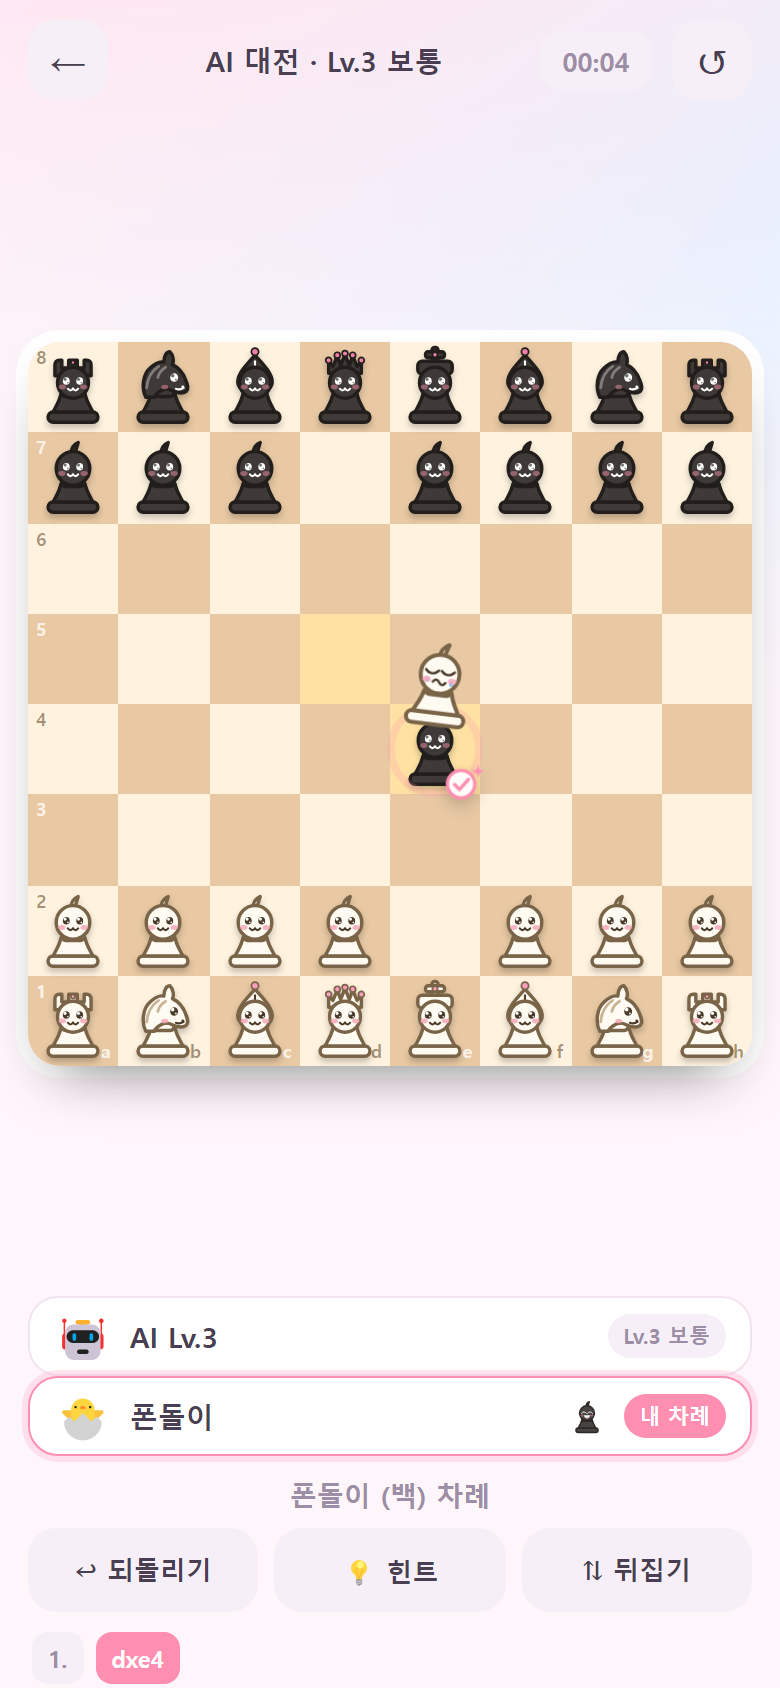
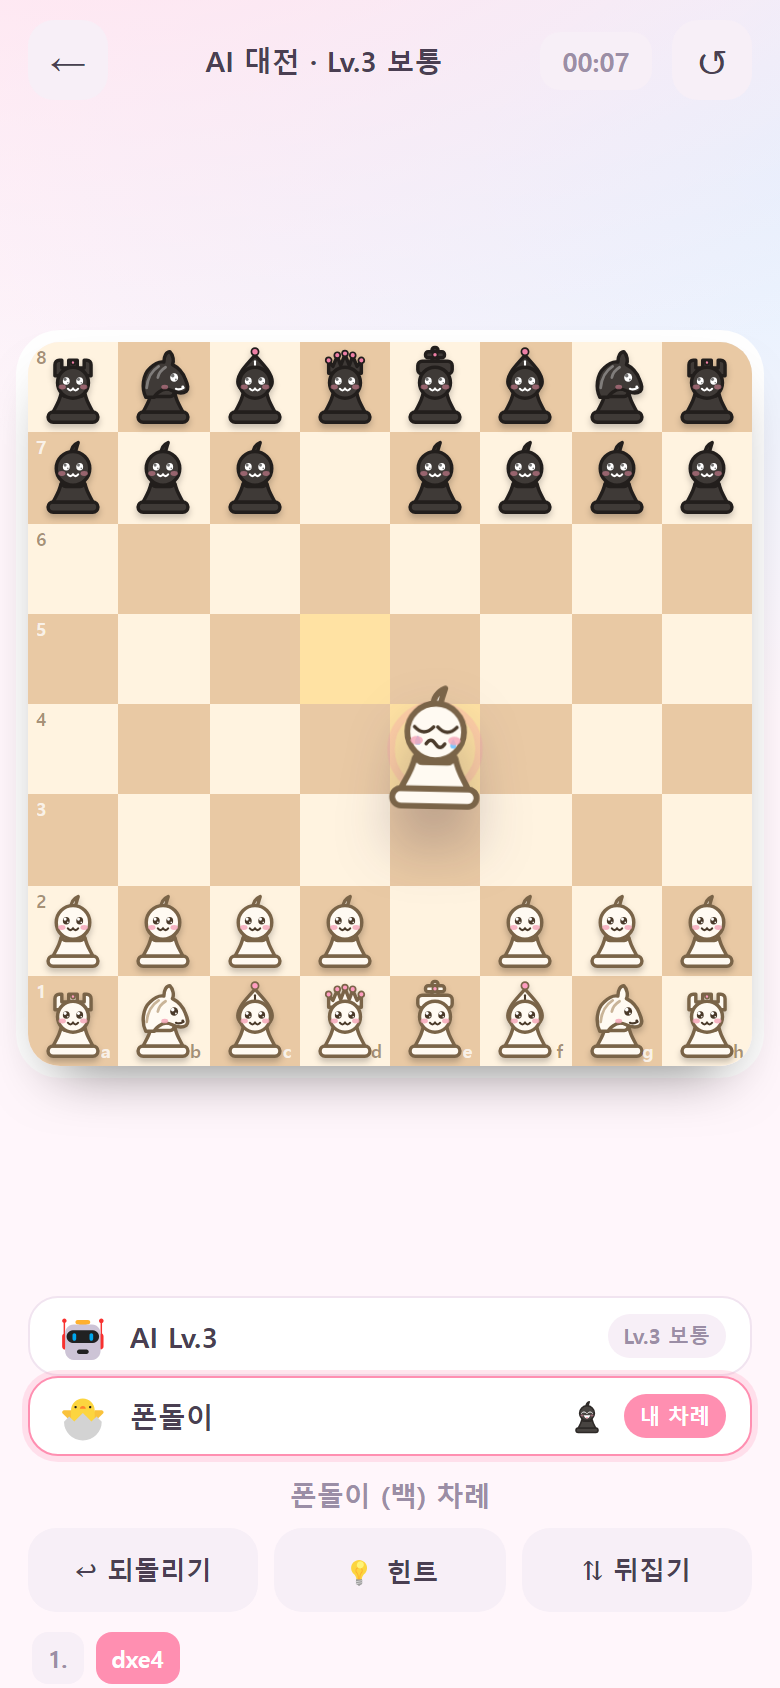
6주차 : 이동 더 천천히(0.6초) + 잡힌 기물이 커지며 표정 보여주고 정상 크기로 복귀
- 이동 0.6초(나이트 0.76초, 캐슬링 룩 0.54초)로 느리게
- 잡힌 기물: 그 자리에서 1.6배로 커져 표정 -> 0.5초 유지 -> 정상 크기 -> 사라짐 (1.4초)
- 잡기에서는 도착 도장 생략 (큰 표정이 도착 확인 역할)
- AI 는 최소 0.9초 + 내 연출이 끝날 때까지 기다린다
- 테스트 19개(전체 146개) 타이밍에 안전하게 폴링으로 재작성
- sw.js VERSION v1.4

Changed region(s): [[0.4923, 0.3697, 0.6154, 0.5237]]

diff --git a/app.js b/app.js
@@ -84,6 +84,7 @@
     aiInfo: null,            // 마지막 AI 탐색 정보 {depth, nodes, ms}
     taken: { w: [], b: [] }, // 잡힌 기물 목록 (6주차 : 얼굴 반응에 쓴다)
     animHide: [],            // 이동 연출 중 숨길 칸 (도착 칸 · 캐슬링 룩 칸)
+    fxUntil: 0,              // 지금 연출이 끝나는 시각 (AI 가 이보다 먼저 두지 않게)
     clock: 0,
     timerId: null,
   };
@@ -371,8 +372,8 @@
        · 규칙(상태)은 applyMove 에서 이미 바뀐다 → 연출은 "화면 위에서만" 한다
          (그래서 저장·테스트·되돌리기는 예전처럼 즉시 동기로 돈다)
        · 이동 : 기물이 천천히 미끄러진다 (나이트는 살짝 포물선)
-       · 도착 : 위치 확인 도장(체크) + 링 + 말랑 착지
-       · 잡힘 : 잡힌 기물의 얼굴이 바뀐다
+       · 도착 : 위치 확인 도장(체크) + 링 + 말랑 착지 (잡기에서는 생략)
+       · 잡힘 : 잡힌 기물이 그 자리에서 커지며 표정을 보여주고 → 다시 정상 크기로 돌아온 뒤 사라진다
             AI 기물이 잡히면 → 웃음(ㅋㅋ)   /   내 기물이 잡히면 → 울음(엉엉)
        · prefers-reduced-motion 이면 움직임 없이 바로 반영한다
      ========================================================== */
@@ -437,22 +438,24 @@
     function clear() {
       gen++;
       layer.innerHTML = '';
+      state.fxUntil = 0;
       reveal();
       boardEl.querySelectorAll('.land-ring, .land-stamp').forEach(el => el.remove());
       boardEl.querySelectorAll('.piece.land').forEach(el => el.classList.remove('land'));
     }
 
-    // 도착 연출 : 링 + 확인 도장 + 말랑 착지
-    function land(i) {
+    // 도착 연출 : 링 + (잡기가 아닐 때) 확인 도장 + 말랑 착지
+    function land(i, withStamp) {
       const cell = boardEl.querySelector(`.square[data-i="${i}"]`);
       if (!cell) return;
       const ring = document.createElement('span');
       ring.className = 'land-ring';
+      cell.appendChild(ring);
+
       const stamp = document.createElement('span');
       stamp.className = 'land-stamp';
       stamp.innerHTML = STAMP;
-      cell.appendChild(ring);
-      cell.appendChild(stamp);
+      if (withStamp) cell.appendChild(stamp);
 
       const p = cell.querySelector('.piece');
       if (p) {
@@ -467,11 +470,12 @@
       }, 1150);
     }
 
-    // 잡힌 기물 : 얼굴 바꿔서 둥실 떠오르며 사라진다
+    // 잡힌 기물 : 그 자리에서 커지며 표정(웃음/울음)을 보여주고 → 다시 정상 크기로 돌아온 뒤 사라진다
+    const VICTIM_MS = 1400;
     function victimFx(piece, sq) {
       const mood = (piece.color === aiColor()) ? 'laugh' : 'cry';
       const el = make('victim', sq, pieceHTML(piece.type, piece.color, mood));
-      setTimeout(() => el.remove(), 980);
+      setTimeout(() => el.remove(), VICTIM_MS + 80);
     }
 
     /**
@@ -487,7 +491,7 @@
 
       const my = gen;
       const isKnight = piece.type === 'n';
-      const dur = isKnight ? 430 : 330;         // 천천히 (기본 0.33초)
+      const dur = isKnight ? 760 : 600;         // 천천히 (기본 0.6초 · 나이트 0.76초)
 
       // 도착 칸(과 캐슬링 룩 칸)의 기물은 날아가는 동안 숨긴다 — 두 개가 겹쳐 보이지 않게
       const hides = [to];
@@ -523,12 +527,15 @@
         : (info.captured ? to : -1);
       const victim = capSq >= 0 ? before[capSq] : null;
 
+      // 이 연출이 끝나는 시각 — AI 가 이보다 먼저 두면 내 연출이 잘린다
+      state.fxUntil = nowMs() + dur + (victim ? VICTIM_MS : 0);
+
       setTimeout(() => {
         if (my !== gen) return;
         fly.remove();
         if (flyRook) flyRook.remove();
         reveal();
-        land(to);
+        land(to, !victim);                   // 잡기에서는 큰 표정이 "도착 확인" 역할을 한다
         if (victim) victimFx(victim, capSq);
       }, dur + 10);
     }
@@ -753,7 +760,7 @@
   }
 
   // AI 차례면 생각을 시작한다
-  const AI_MIN_MS = 520;      // 최소 대기 — 내 기물이 "도착하는 걸 보고" 응수하게 (연출 0.33초 + 여유)
+  const AI_MIN_MS = 900;      // 최소 대기 — 내 기물이 "도착하는 걸 보고" 응수하게 (사람처럼 한 박자)
   const nowMs = () => (window.performance && performance.now) ? performance.now() : Date.now();
 
   function maybeAI() {
@@ -782,7 +789,9 @@
         }
         state.thinking = false;
         applyMove(mv.from, mv.to, mv.promotion);
-      }, Math.max(0, AI_MIN_MS - (nowMs() - t0)));
+      }, Math.max(0,
+        AI_MIN_MS - (nowMs() - t0),            // 최소 0.9초
+        (state.fxUntil || 0) - nowMs()));      // + 내 이동·표정 연출이 끝날 때까지
     });
   }
 

diff --git a/style.css b/style.css
@@ -554,14 +554,14 @@ html[data-theme="dark"] .piece.b { --body: #3a3634; --line: #9b948c; --mane: rgb
 .fly-piece {
   z-index: 3;
   filter: drop-shadow(0 9px 7px rgba(0, 0, 0, .3));
-  animation: flySlide 330ms cubic-bezier(.22, .9, .3, 1) forwards;
+  animation: flySlide 600ms cubic-bezier(.4, .05, .3, 1) forwards;
 }
-.fly-piece.rook { animation-duration: 290ms; }
-.fly-piece.knight { animation: flyArc 430ms cubic-bezier(.22, .9, .3, 1) forwards; }
+.fly-piece.rook { animation-duration: 540ms; }
+.fly-piece.knight { animation: flyArc 760ms cubic-bezier(.4, .05, .3, 1) forwards; }
 
 @keyframes flySlide {
   0%   { transform: translate(0, 0) scale(1); }
-  32%  { transform: translate(calc(var(--dx) * .32), calc(var(--dy) * .32)) scale(1.1); }
+  30%  { transform: translate(calc(var(--dx) * .3), calc(var(--dy) * .3)) scale(1.12); }
   100% { transform: translate(var(--dx), var(--dy)) scale(1); }
 }
 /* 나이트는 살짝 뛰어넘는다 (귀여운 포물선) */
@@ -571,17 +571,21 @@ html[data-theme="dark"] .piece.b { --body: #3a3634; --line: #9b948c; --mane: rgb
   100% { transform: translate(var(--dx), var(--dy)) scale(1) rotate(0); }
 }
 
-/* ---- 잡힌 기물 : 얼굴이 바뀐 채로 둥실 떠올라 사라진다 ---- */
+/* ---- 잡힌 기물 : 그 자리에서 커지며 표정을 보여주고 → 정상 크기로 돌아온 뒤 사라진다 ---- */
 .victim {
   z-index: 4;
-  animation: victimFly 900ms cubic-bezier(.3, .7, .4, 1) forwards;
+  transform-origin: 50% 55%;
+  filter: drop-shadow(0 10px 9px rgba(40, 30, 60, .3));
+  animation: victimGrow 1400ms cubic-bezier(.3, .8, .4, 1) forwards;
 }
-@keyframes victimFly {
-  0%   { transform: translate(0, 0) scale(1) rotate(0); opacity: 1; }
-  12%  { transform: translate(0, -6%) scale(1.24) rotate(-8deg); opacity: 1; }
-  34%  { transform: translate(4%, -72%) scale(1.1) rotate(7deg); opacity: 1; }
-  70%  { transform: translate(-5%, -124%) scale(.95) rotate(-9deg); opacity: .9; }
-  100% { transform: translate(2%, -180%) scale(.55) rotate(11deg); opacity: 0; }
+@keyframes victimGrow {
+  0%   { transform: scale(1) rotate(0); opacity: 1; }
+  16%  { transform: scale(1.58) rotate(-5deg); opacity: 1; }   /* 커지면서 */
+  34%  { transform: scale(1.62) rotate(4deg); opacity: 1; }    /* 표정 보여주기 */
+  56%  { transform: scale(1.5) rotate(-3deg); opacity: 1; }    /* 잠깐 유지 */
+  78%  { transform: scale(1.02) rotate(0); opacity: 1; }       /* 다시 정상 크기로 */
+  92%  { transform: scale(1) rotate(0); opacity: 1; }
+  100% { transform: scale(.86) rotate(0); opacity: 0; }        /* 그다음 사라짐 */
 }
 
 /* ---- 도착 : 위치 확인 링 + 도장 + 말랑 착지 ---- */
@@ -600,8 +604,8 @@ html[data-theme="dark"] .piece.b { --body: #3a3634; --line: #9b948c; --mane: rgb
   100% { transform: scale(1.5); opacity: 0; }
 }
 
-/* "여기 도착!" 확인 도장 : 칸 오른쪽 위에 톡 찍힌다
-   (연출 레이어(z 30)보다 위 → 잡힌 기물이 떠올라도 도장이 가려지지 않는다) */
+/* "여기 도착!" 확인 도장 : 칸 오른쪽 아래에 톡 찍힌다
+   (잡기에서는 잡힌 기물이 커지며 표정을 보여주므로 도장은 생략한다) */
 .land-stamp {
   position: absolute;
   right: -7%;

diff --git a/index.html b/index.html
@@ -107,7 +107,7 @@
       <button class="btn btn-primary btn-lg" id="btn-start" type="button">게임 시작</button>
       <button class="btn btn-ghost btn-lg install-btn" id="btn-install" type="button" hidden>📲 홈 화면에 추가</button>
       <p class="roadmap">
-        <b>6주차 구현 완료</b> — 천천히 이동 · 도착 확인 도장 · 웃는/우는 기물 표정<br>
+        <b>6주차 구현 완료</b> — 천천히 이동(0.6초) · 도착 확인 도장 · 커지며 웃는/우는 기물 표정<br>
         이전: 대국 저장/이어하기 · 효과음 · PWA(오프라인 · 홈 화면 추가)<br>
         다음: 실기기 테스트 · 기보 보관함(PGN) · AI 코멘트
       </p>

diff --git a/sw.js b/sw.js
@@ -14,7 +14,7 @@
    ============================================================ */
 'use strict';
 
-const VERSION = 'cute-chess-v1.3';   // 파일이 바뀌면 여기를 올린다 → 옛 캐시는 자동 삭제
+const VERSION = 'cute-chess-v1.4';   // 파일이 바뀌면 여기를 올린다 → 옛 캐시는 자동 삭제
 const CACHE = VERSION;
 
 // 앱 껍데기 : 이 파일들만 있으면 오프라인에서도 한 판을 둘 수 있다

diff --git a/dev/test_all.py b/dev/test_all.py
@@ -594,10 +594,24 @@ FX_TESTS = r"""
     C.play(f, t, p);
     C.state.thinking = false;
   };
+  // 연출은 타이머로 움직인다 → 고정 시간 대신 "조건이 될 때까지" 기다린다 (느린 기기에서도 안전)
+  const until = async (cond, ms) => {
+    const t0 = Date.now();
+    while (Date.now() - t0 < (ms || 4000)) { if (cond()) return true; await wait(40); }
+    return false;
+  };
+  const cellW = () => document.querySelector('.square').getBoundingClientRect().width;
+  const victimScale = () => {
+    const el = document.querySelector('.victim');
+    return el ? el.getBoundingClientRect().width / cellW() : 0;
+  };
 
   C.settings.playerColor = 'w';
   C.settings.level = 3;
   C.profile.nickname = '폰돌이';
+  // 대국 화면을 실제로 띄운다 (크기 측정은 화면에 보일 때만 의미가 있다)
+  document.getElementById('screen-home').classList.remove('active');
+  document.getElementById('screen-game').classList.add('active');
 
   /* ── 이동 연출 ───────────────────────────────────────────── */
   C.newGame(); C.render();
@@ -605,35 +619,42 @@ FX_TESTS = r"""
   ok('이동 연출 : 날아가는 기물이 생긴다', q('.fly-piece') === 1, q('.fly-piece') + '개');
   ok('이동 : 도착 칸 기물은 도착 전까지 숨김', opacityAt(36) === '0', 'opacity=' + opacityAt(36));
   const dur = parseFloat(getComputedStyle(document.querySelector('.fly-piece')).animationDuration);
-  ok('이동이 천천히 (0.3초 이상)', dur >= 0.3 && dur <= 1.2, dur + 's');
+  ok('이동이 천천히 (0.5초 이상)', dur >= 0.5 && dur <= 1.5, dur + 's');
 
-  await wait(520);                                // 비행(0.33초) + 도착
+  await until(() => q('.land-stamp') === 1, 3000);   // 비행(0.6초) 끝 → 도착
   ok('도착 : 위치 확인 도장이 찍힌다', q('.land-stamp') === 1, q('.land-stamp') + '개');
   ok('도착 : 기물이 다시 보인다', opacityAt(36) === '1', 'opacity=' + opacityAt(36));
-  await wait(1400);
+  await until(() => q('.fly-piece, .land-stamp, .land-ring') === 0, 4000);
   ok('연출은 잠시 뒤 스스로 사라진다', q('.fly-piece, .land-stamp, .land-ring') === 0,
      q('.fly-piece, .land-stamp, .land-ring') + '개 남음');
 
   /* ── 표정 : 잡힌 기물 ─────────────────────────────────────── */
   C.rules.load('rnbqkbnr/ppp1pppp/8/3p4/4P3/8/PPPP1PPP/RNBQKBNR w KQkq - 0 3'); C.render();
   play(36, 27);                                   // 내가 흑 폰을 잡는다 (exd5)
-  await wait(440);
+  await until(() => q('.victim') === 1, 3000);
   ok('내가 AI 기물을 잡으면 : 잡힌 기물이 웃는다', q('.victim svg.laugh') === 1, q('.victim svg.laugh') + '개');
+  ok('잡기에서는 도장 대신 큰 표정을 보여준다', q('.land-stamp') === 0, q('.land-stamp') + '개');
+  await until(() => victimScale() >= 1.4, 2000);
+  ok('잡힌 기물이 커진다 (1.4배 이상)', victimScale() >= 1.4, '×' + victimScale().toFixed(2));
   ok('내 쪽 표시줄에 웃는 얼굴로 남는다', q('#taken-me .tk svg.laugh') === 1, q('#taken-me .tk') + '개');
+  await until(() => q('.victim') === 0, 4000);
+  ok('표정 연출은 끝나면 정상으로 돌아온다 (보드에 흔적 없음)',
+     q('.victim') === 0 && q('.square svg.laugh, .square svg.cry') === 0,
+     q('.victim') + '개 남음');
 
   C.rules.load('rnbqkbnr/ppp1pppp/8/3p4/4P3/8/PPPP1PPP/RNBQKBNR w KQkq - 0 3'); C.render();
   play(48, 40);                                   // 백 : a2 → a3 (잡기 아님)
   play(27, 36);                                   // 흑(AI) : d5xe4 → 내 폰이 잡힌다
-  await wait(440);
+  await until(() => q('.victim') === 1, 3000);
   ok('내 기물이 잡히면 : 잡힌 기물이 운다', q('.victim svg.cry') === 1, q('.victim svg.cry') + '개');
   ok('AI 쪽 표시줄에 우는 얼굴로 남는다', q('#taken-opp .tk svg.cry') === 1, q('#taken-opp .tk') + '개');
-  ok('얼굴은 원래 기물로 돌아온다 (보드에는 표정 없음)', q('.square svg.laugh, .square svg.cry') === 0);
+  await until(() => q('.victim') === 0, 4000);
 
   /* ── 캐슬링 : 킹 + 룩 ─────────────────────────────────────── */
   C.rules.load('r3k2r/8/8/8/8/8/8/R3K2R w KQkq - 0 1'); C.render();
   play(60, 62);                                   // O-O
   ok('캐슬링 : 킹과 룩이 함께 날아간다', q('.fly-piece') === 2, q('.fly-piece') + '개');
-  await wait(600);
+  await until(() => q('.fly-piece') === 0, 3000);
 
   /* ── 잡힌 기물 목록 (3:3) ─────────────────────────────────── */
   C.rules.load('7k/8/8/8/3p2p1/p1p1p2P/1P1P1PP1/K7 w - - 0 1'); C.render();

diff --git a/dev/make_fx.py b/dev/make_fx.py
@@ -59,12 +59,12 @@ PLAY = """
 }
 """
 
-# 비행 중 화면 : 연출 종료 타이머(340/440ms)를 잠깐 막아야 멈춘 화면이 사라지지 않는다
+# 비행 중 화면 : 연출 종료 타이머(610/770ms)를 잠깐 막아야 멈춘 화면이 사라지지 않는다
 PLAY_HOLD = """
 ([f, t]) => {
   const C = window.__cuteChess;
   const orig = window.setTimeout;
-  window.setTimeout = (fn, d) => (d === 340 || d === 440) ? 0 : orig(fn, d);
+  window.setTimeout = (fn, d) => (d === 610 || d === 770) ? 0 : orig(fn, d);
   C.state.thinking = true;
   C.play(f, t);
   C.state.thinking = false;
@@ -107,7 +107,7 @@ def main():
         # ---- 1) 천천히 이동 (미끄러지는 중) ----------------------------------
         print("1) 이동 중")
         page.evaluate(PLAY_HOLD, [52, 36])          # e2 → e4
-        page.evaluate(FREEZE, 150)
+        page.evaluate(FREEZE, 300)
         shot(page, "fx-1-fly.png")
         page.evaluate(THAW)
 
@@ -116,8 +116,8 @@ def main():
         page.evaluate(SET, "rnbqkbnr/pppppppp/8/8/8/8/PPPPPPPP/RNBQKBNR w KQkq - 0 1")
         page.wait_for_timeout(120)
         page.evaluate(PLAY, [52, 36])
-        page.wait_for_timeout(430)                  # 비행(330) 끝 + 도장 생성
-        page.evaluate(FREEZE, 250)
+        page.wait_for_timeout(900)                  # 비행(600) 끝 + 도장 생성
+        page.evaluate(FREEZE, 260)
         shot(page, "fx-2-land.png")
         page.evaluate(THAW)
 
@@ -126,7 +126,7 @@ def main():
         page.evaluate(SET, "rnbqkbnr/pppppppp/8/8/8/8/PPPPPPPP/RNBQKBNR w KQkq - 0 1")
         page.wait_for_timeout(120)
         page.evaluate(PLAY_HOLD, [57, 42])          # b1 → c3
-        page.evaluate(FREEZE, 200)
+        page.evaluate(FREEZE, 380)
         shot(page, "fx-3-knight.png")
         page.evaluate(THAW)
 
@@ -135,7 +135,7 @@ def main():
         page.evaluate(SET, "rnbqkbnr/ppp1pppp/8/3p4/4P3/8/PPPP1PPP/RNBQKBNR w KQkq - 0 3")
         page.wait_for_timeout(120)
         page.evaluate(PLAY, [36, 27])               # e4xd5
-        page.wait_for_timeout(430)
+        page.wait_for_timeout(800)                  # 비행 0.6초 → 잡힌 기물이 커지는 중
         page.evaluate(FREEZE, 300)
         shot(page, "fx-4-laugh.png")
         page.evaluate(THAW)
@@ -145,7 +145,7 @@ def main():
         page.evaluate(SET, "rnbqkbnr/ppp1pppp/8/3p4/4P3/8/PPPP1PPP/RNBQKBNR b KQkq - 0 3")
         page.wait_for_timeout(120)
         page.evaluate(PLAY, [27, 36])               # d5xe4 (흑)
-        page.wait_for_timeout(430)
+        page.wait_for_timeout(800)                  # 비행 0.6초 → 잡힌 기물이 커지는 중
         page.evaluate(FREEZE, 300)
         shot(page, "fx-5-cry.png")
         page.evaluate(THAW)
@@ -158,7 +158,7 @@ def main():
         page.wait_for_timeout(120)
         for f, t in [(49, 40), (42, 51), (53, 44), (38, 47), (44, 35), (47, 54)]:
             page.evaluate(PLAY, [f, t])
-            page.wait_for_timeout(420)
+            page.wait_for_timeout(900)
         page.wait_for_timeout(700)                  # 마지막 연출이 끝나기를 기다린다
         print("  history:", page.evaluate("() => JSON.stringify(window.__cuteChess.rules.history())"))
         print("  taken:", page.evaluate("() => JSON.stringify(window.__cuteChess.state.taken)"))

diff --git a/dev/verify_deploy.py b/dev/verify_deploy.py
@@ -155,7 +155,7 @@ def run(base):
         check("보드 64칸 렌더", squares == 64, f"{squares}칸")
         page.evaluate("() => window.__cuteChess.play(52, 36)")     # e2 → e4
         fly = page.evaluate("() => document.querySelectorAll('.fly-piece').length")
-        page.wait_for_timeout(400)                                 # 비행 0.33초 + 도착
+        page.wait_for_timeout(750)                                 # 비행 0.6초 + 도착
         stamp = page.evaluate("() => document.querySelectorAll('.land-stamp').length")
         check("이동 연출 · 도착 확인 도장 (6주차)", fly == 1 and stamp == 1,
               f"비행 {fly}개 · 도장 {stamp}개")

diff --git a/기획서.md b/기획서.md
@@ -201,10 +201,11 @@ chess-game/
 
 **움직임 (정지 그림이어도 살아있게)**
 - 선택한 기물: 위아래로 둥둥(`pieceBob`) → 지금 뭘 잡았는지 눈으로 확인
-- **이동 (6주차)**: 보드 위 연출 레이어에서 **0.33초 동안 미끄러진다**(나이트는 0.43초 포물선).
+- **이동 (6주차)**: 보드 위 연출 레이어에서 **0.6초 동안 미끄러진다**(나이트는 0.76초 포물선).
   날아가는 동안에는 도착 칸 기물을 숨겨 두 개가 겹쳐 보이지 않게 한다
 - **도착 (6주차)**: 링이 퍼지고 오른쪽 아래에 **체크 도장**이 찍힌다 + 기물이 말랑하게 찌그러졌다 돌아온다(`pieceLand`)
-- **잡힘 (6주차)**: 잡힌 기물이 **바뀐 표정으로 둥실 떠올라** 사라진다(0.9초, 살짝 회전)
+- **잡힘 (6주차)**: 잡힌 기물이 **그 자리에서 1.6배로 커지며** 바뀐 표정을 보여주고 →
+  **다시 정상 크기로 돌아온 뒤** 사라진다(1.4초). 커진 얼굴을 0.5초쯤 유지해 작은 화면에서도 또렷하다
 - 연출은 **화면 위에서만** 일어난다 → 규칙·저장·테스트는 예전처럼 즉시 동기 (입력 잠금 없음)
 
 **검수 방법 (중요)**
@@ -253,7 +254,7 @@ chess-game/
 - [x] 3회 반복 회피 강화 (감점 25 → 40cp)
 
 **6주차 완료 ✅**
-- [x] **천천히 미끄러지는 이동** — 0.33초(나이트 0.43초 포물선 · 캐슬링은 킹+룩 동시 · 프로모션은 도착 후 변신)
+- [x] **천천히 미끄러지는 이동** — 0.6초(나이트 0.76초 포물선 · 캐슬링은 킹+룩 동시 · 프로모션은 도착 후 변신)
 - [x] **도착 확인 도장** — 도착 칸에 링 + 체크 스탬프 + 말랑 착지(스쿼시)
 - [x] **잡힌 기물의 표정** — 내가 잡은 AI 기물은 **웃음**, AI 가 잡은 내 기물은 **울음**
 - [x] 잡힌 기물 표시줄 — 표정 그대로 남는다 (값 순 정렬, 7개 이상은 `+n`)
@@ -419,7 +420,7 @@ chess-game/
   - 서비스 워커가 페이지를 제어하고 앱 껍데기 **11개 파일**을 캐시
   - **오프라인(`set_offline(True)`)으로 새로고침** → 화면이 뜨고, 이어하기가 남아 있고, **AI 가 응수**(끝까지 로컬)
   - 소리 설정 저장 · 끝난 대국은 저장 삭제 · 깨진 저장은 버려지고 게임은 계속
-- **종합 테스트 (4·5·6주차, 실기기 대체)** — `dev/test_all.py` · **144개 검사 · 3회 연속 전부 통과**
+- **종합 테스트 (4·5·6주차, 실기기 대체)** — `dev/test_all.py` · **146개 검사 · 3회 연속 전부 통과**
   - 기기 프로필 9종(픽셀 5·4a 5G / 갤럭시 S9+·S8 / 넥서스 5X / 아이폰 SE·13 / 가로 2종) 레이아웃·칸 크기
   - **CDP 로 진짜 터치 이벤트**(touchStart/touchMove/touchEnd)를 보내 탭-탭·드래그·선택 해제를 검증
     (Playwright 의 기본 탭만으로는 드래그를 재현할 수 없다)
